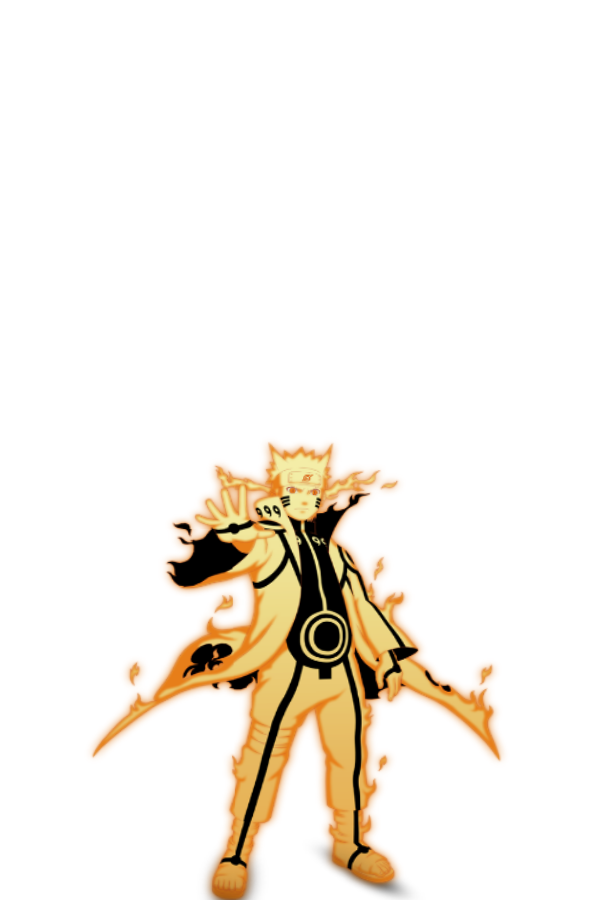
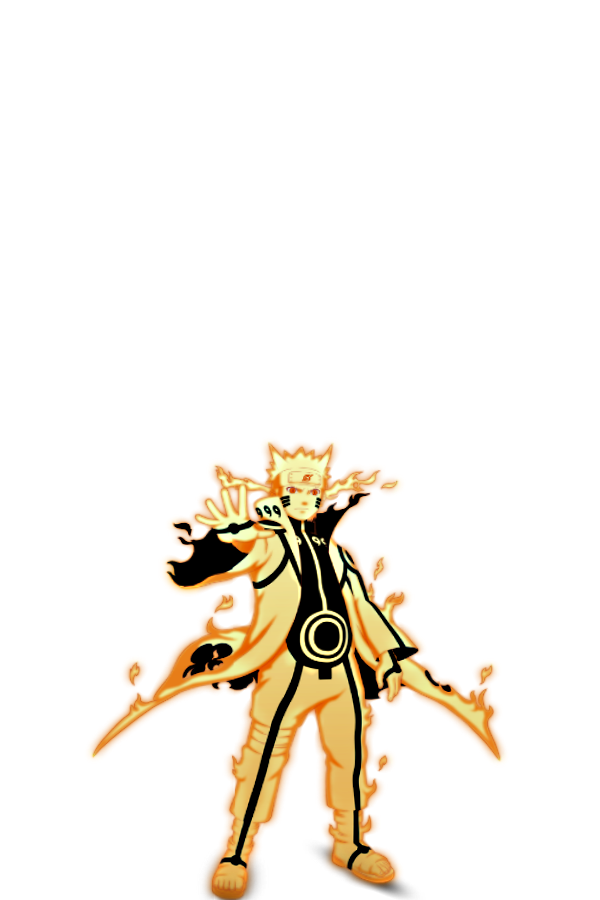
chicken here again

diff --git a/android/src/com/mygdx/purefaithstudio/android/SetWallpaperActivity.java b/android/src/com/mygdx/purefaithstudio/android/SetWallpaperActivity.java
@@ -124,10 +124,10 @@ public class SetWallpaperActivity extends AppCompatActivity implements RewardedV
                     } catch (Exception e) {
                         try {
                             Log.e("harsim", "moved to chooser");
-                            Intent intent = new Intent();
+                            Intent intent2 = new Intent();
                             Toast makeText = Toast.makeText(SetWallpaperActivity.this, "Choose Live wallpaper-3d parallax...\n in the list to start the Live Wallpaper.", Toast.LENGTH_SHORT);
-                            intent.setAction(WallpaperManager.ACTION_LIVE_WALLPAPER_CHOOSER);
-                            startActivityForResult(intent, requestCode);
+                            intent2.setAction(WallpaperManager.ACTION_LIVE_WALLPAPER_CHOOSER);
+                            startActivityForResult(intent2, requestCode);
                             makeText.show();
                         } catch (Exception e2) {
                             Toast.makeText(SetWallpaperActivity.this, "Please go to your system settings or long press on your homescreen to set Live Wallpaper", Toast.LENGTH_SHORT).show();
@@ -181,7 +181,7 @@ public class SetWallpaperActivity extends AppCompatActivity implements RewardedV
 	protected void onResume() {
 		super.onResume();
 		wp.setText("" + prefs.getInt("points", 0));
-		Log.e("harsim", "" + prefs.getInt("points", 0));
+		//Log.i("harsim", "" + prefs.getInt("points", 0));
 	}
 
     @Override
@@ -212,15 +212,20 @@ public class SetWallpaperActivity extends AppCompatActivity implements RewardedV
         if (mInterstitialAd.isLoaded()) {
             mInterstitialAd.show();
         }
+        else if(!mInterstitialAd.isLoading()){
+                mInterstitialAd.loadAd(new AdRequest.Builder().addTestDevice("49C0FA06A59AFA686D150669805EA0E1").build());
+        }
 	}
 
 	public void colorBackPick(View view) {
 		color = colorp.getColor();
-		//Log.e("harsim", "" + color);
+		//Log.i("harsim", "" + color);
 		Config.backColor[0] = Color.red(color);
 		Config.backColor[1] = Color.green(color);
 		Config.backColor[2] = Color.blue(color);
         Config.backColorchange = true;
+        colorCollapser.setBackgroundResource(R.drawable.plus);
+        colorBackLayout.setVisibility(View.GONE);
 		//Config.saveColor();
 	}
 
@@ -317,9 +322,9 @@ public class SetWallpaperActivity extends AppCompatActivity implements RewardedV
         if(id == R.id.Contactus){
             contactUs();
         }
-        if(id == R.id.Help){
+        /*if(id == R.id.Help){
 
-        }
+        }*/
 		return super.onOptionsItemSelected(item);
 
 	}
@@ -361,10 +366,16 @@ public class SetWallpaperActivity extends AppCompatActivity implements RewardedV
 
 	@Override
 	public void onRewarded(RewardItem reward) {
-		Config.points += reward.getAmount();
-		editor.putInt("points", Config.points);
-		editor.commit();
-		//wp.setText(""+Config.points);
+        try {
+            Config.points += reward.getAmount();
+            editor.putInt("points", Config.points);
+            editor.commit();
+            //wp.setText(""+Config.points);
+            gridAdapter.notifyDataSetInvalidated();
+        }
+        catch(Exception e){
+
+        }
 	}
 
 	@Override
@@ -427,8 +438,8 @@ public class SetWallpaperActivity extends AppCompatActivity implements RewardedV
     public void contactUs(){
         Intent emailIntent = new Intent(Intent.ACTION_SENDTO, Uri.fromParts(
                 "mailto","harsimran1994@gmail.com", null));
-        emailIntent.putExtra(Intent.EXTRA_SUBJECT, "Bug Report");
-        //emailIntent.putExtra(Intent.EXTRA_TEXT, "Body");
+        emailIntent.putExtra(Intent.EXTRA_SUBJECT, "subject here ex:- bug report");
+        emailIntent.putExtra(Intent.EXTRA_TEXT, "enter your message for us here");
         startActivity(Intent.createChooser(emailIntent, "Send email..."));
     }
 

diff --git a/android/src/com/mygdx/purefaithstudio/android/Preferences.java b/android/src/com/mygdx/purefaithstudio/android/Preferences.java
@@ -95,19 +95,34 @@ public class Preferences extends PreferenceActivity implements OnPreferenceChang
 		Toast.makeText(this, R.string.settings_toast_unavailable, Toast.LENGTH_SHORT).show();
 	}
 
-	@Override
+    @Override
+    public void onBackPressed() {
+        if(mInterstitialAd.isLoaded())
+            mInterstitialAd.show();
+        super.onBackPressed();
+    }
+
+    @Override
 	public boolean onPreferenceChange(Preference preference, Object newValue) {
 
 		if(preference == checkBoxTest) {
                 Config.persistent = (Boolean) newValue;
                 checkBoxTest.setChecked(Config.persistent);
                 Config.save();
+           /* if(mInterstitialAd.isLoaded())
+                mInterstitialAd.show();
+            else if(!mInterstitialAd.isLoading())
+                mInterstitialAd.loadAd(new AdRequest.Builder().addTestDevice("49C0FA06A59AFA686D150669805EA0E1").build());*/
 			return true;
 		}
         if (preference == moveBox) {
                 Config.moving = (Boolean) newValue;
                 moveBox.setChecked(Config.moving);
                 Config.save();
+           /* if(mInterstitialAd.isLoaded())
+                mInterstitialAd.show();
+            else if(!mInterstitialAd.isLoading())
+                mInterstitialAd.loadAd(new AdRequest.Builder().addTestDevice("49C0FA06A59AFA686D150669805EA0E1").build());*/
             return true;
         }
         if (preference == setLock) {
@@ -116,6 +131,10 @@ public class Preferences extends PreferenceActivity implements OnPreferenceChang
                 Config.save();
 			if(Config.lockScreen)
 				Toast.makeText(this,"click on set-wallaper again for it to take effect!!",Toast.LENGTH_SHORT).show();
+           /* if(mInterstitialAd.isLoaded())
+                mInterstitialAd.show();
+            else if(!mInterstitialAd.isLoading())
+                mInterstitialAd.loadAd(new AdRequest.Builder().addTestDevice("49C0FA06A59AFA686D150669805EA0E1").build());*/
             return true;
         }
         if (preference == listTest) {
@@ -141,7 +160,10 @@ public class Preferences extends PreferenceActivity implements OnPreferenceChang
                 listTest.setSummary(listTest.getEntry());
                 Config.save();
             }
-            mInterstitialAd.show();
+            if(mInterstitialAd.isLoaded())
+                mInterstitialAd.show();
+            else if(!mInterstitialAd.isLoading())
+                mInterstitialAd.loadAd(new AdRequest.Builder().addTestDevice("49C0FA06A59AFA686D150669805EA0E1").build());
 			return true;
 		}
 		return false;

diff --git a/core/src/com/mygdx/purefaithstudio/Main.java b/core/src/com/mygdx/purefaithstudio/Main.java
@@ -15,11 +15,13 @@ import com.badlogic.gdx.graphics.g2d.BitmapFont;
 import com.badlogic.gdx.graphics.g2d.SpriteBatch;
 import com.badlogic.gdx.graphics.g2d.TextureRegion;
 import com.badlogic.gdx.graphics.glutils.FrameBuffer;
+import com.badlogic.gdx.math.Vector2;
 import com.badlogic.gdx.math.Vector3;
 
 public class Main extends Base {
 	private OrthographicCamera camera;
 	private SpriteBatch batch;
+    private Vector2 touch;
 	private Texture texture[];
 	private ParticleLayer partlay;
 	private FrameBuffer fbo;
@@ -210,6 +212,12 @@ public class Main extends Base {
             @Override
             public boolean touchDown(int screenX, int screenY, int pointer, int button) {
                 // TODO Auto-generated method stub
+
+                touch = new Vector2();
+                touch.x = (int) (screenX * 480 / Gdx.graphics.getWidth());
+                touch.y = (int) (screenY * 800 / Gdx.graphics.getHeight());
+                touch.y = 800 - touch.y;
+                System.out.println(touch.x+":"+touch.y);
                 if (com.mygdx.purefaithstudio.Config.persistent) {
 					//partlay.setWind((240 - touch.x) * 0.2f);
                     if(partlay!=null) {
@@ -399,13 +407,12 @@ public class Main extends Base {
                 texture[1]  = new Texture(Gdx.files.internal("data/drag2.png"));
                 break;
             case 17:
-                size=4;
+                size=3;
                 parallax = true;
                 texture = new Texture[size];
                 texture[0]  = new Texture(Gdx.files.internal("data/naruto0.png"));
                 texture[1]  = new Texture(Gdx.files.internal("data/naruto1.png"));
-                texture[2]  = new Texture(Gdx.files.internal("data/naruto2.png"));
-                texture[3]  = new Texture(Gdx.files.internal("data/naruto3.png"));
+                texture[2]  = new Texture(Gdx.files.internal("data/naruto4.jpg"));
                 break;
             case 18:
                 size=2;

diff --git a/core/src/com/mygdx/purefaithstudio/ParticleLayer.java b/core/src/com/mygdx/purefaithstudio/ParticleLayer.java
@@ -19,7 +19,7 @@ public class ParticleLayer {
 	public final String flame = "particle/enemage.party";
 	public final String blueflame = "particle/mage.party";
 	public final String blueflame2 = "particle/mage2.party";
-	public final String chakra = "particle/chakra.party";
+	public final String chakra = "particle/design4.party";
 	public final String sparks = "particle/sparks.party";
 	public final String sparks2 = "particle/sparks2.party";
 	public final String frag = "particle/frag.party";
@@ -183,6 +183,19 @@ public class ParticleLayer {
                 pooleff = PePool[0].obtain();
                 pooleff.setPosition(240, 800);
                 pooleff.scaleEffect(2.2f);
+                effects.add(pooleff);
+                break;
+
+            case 17:
+                pep.atlasFile = "particle/pack.atlas";
+                assetm.load(chakra, ParticleEffect.class, pep);
+                assetm.finishLoading();
+                PePool = new ParticleEffectPool[1];
+                pe = assetm.get(chakra, ParticleEffect.class);
+                PePool[0] = new ParticleEffectPool(pe, 1, 5);
+                pooleff = PePool[0].obtain();
+                pooleff.setPosition(187, 331);
+                pooleff.scaleEffect(0.3f);
                 effects.add(pooleff);
                 break;
 			

diff --git a/core/src/com/mygdx/purefaithstudio/Config.java b/core/src/com/mygdx/purefaithstudio/Config.java
@@ -10,7 +10,7 @@ public class Config {
 	public static Preferences preferences = null;// = Gdx.app.getPreferences("preferences");
 	public static boolean lockScreen=false,persistent = false,moving=false,backColorchange=false;
 	public static String listTest = "0";
-	public static int fps=80,points = 0;
+	public static int fps=120,points = 0;
 	public static float backColor[] = {0,0,0},Sensitivity=4.0f;
     public static String promo="LWP#193#sin";
 
